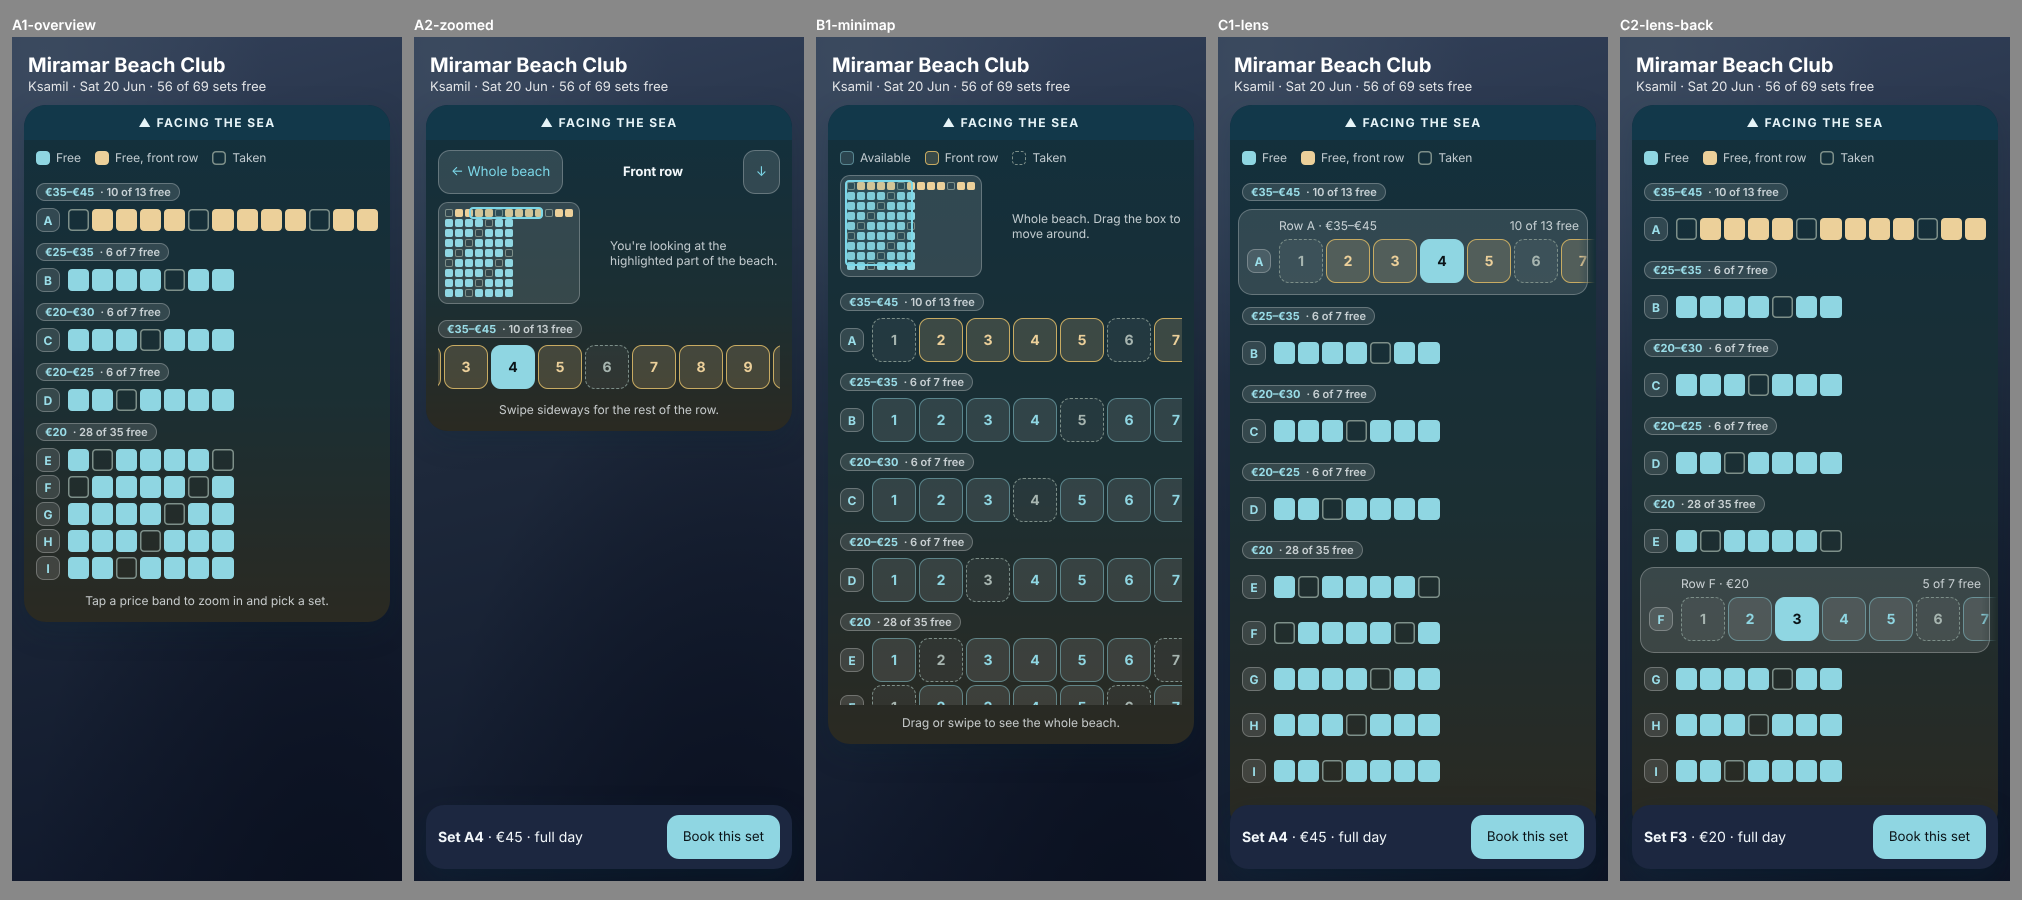
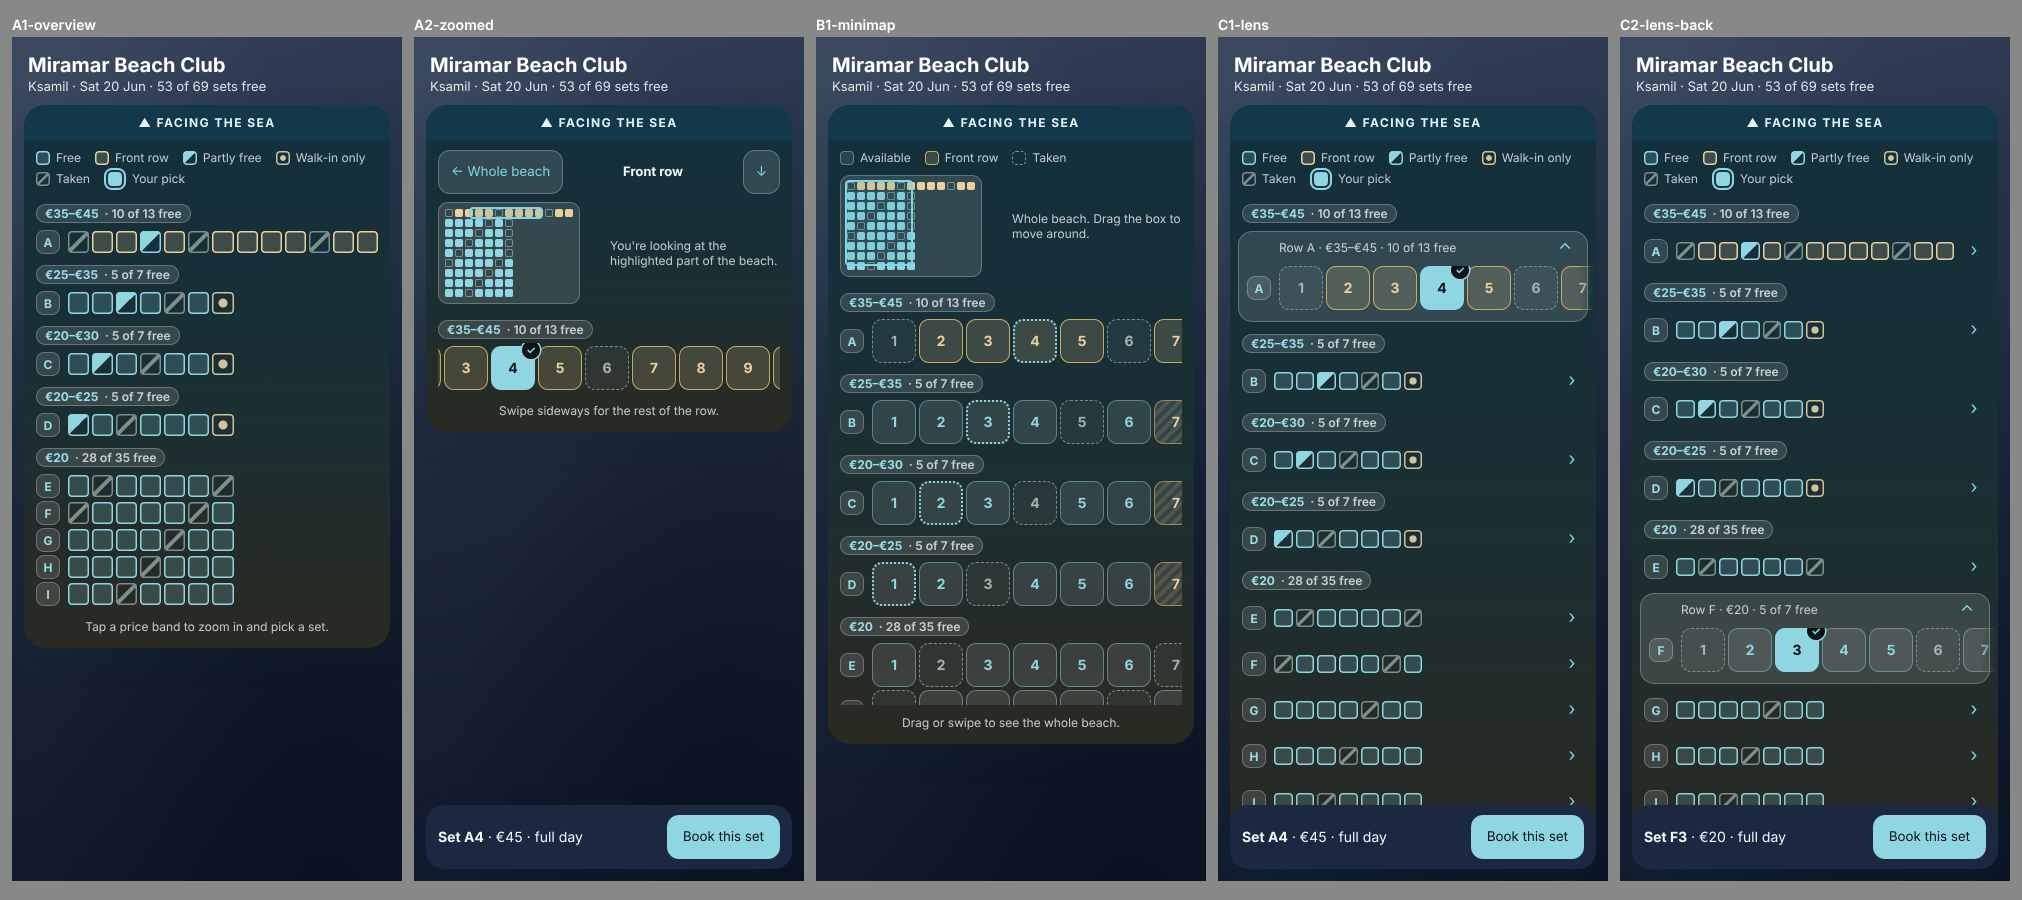
spike(#1762): apply the design critique to the prototype
One state vocabulary at both scales (tint + edge = free, solid = your pick
only, strike = taken), partly-free and walk-in overview treatments, and the
row lens gets a chevron, aria-expanded, a close control, scroll pinned to the
tapped row and focus moved into the open row. Contact sheets re-shot.

Claude-Session: https://claude.ai/code/session_0138xCuCxjYXV8XmCyjSMsWQ

diff --git a/frontend/src/app/venue/PROTOTYPE-1762-phone-map.html b/frontend/src/app/venue/PROTOTYPE-1762-phone-map.html
@@ -4,6 +4,9 @@
   beach map show the WHOLE beach and still let them pick a set on a ≥44px target?
   Three structurally different variants on one page, switchable with ?variant=A|B|C and
   ?theme=porcelain|riviera|dark (floating bar, or ←/→). Open the file directly in a browser.
+  Round 2 (design critique): free = tint + edge, SOLID = your pick only, strike = taken; partly-free
+  and walk-in sets added to the fixture to design their overview look; C rows carry a chevron,
+  aria-expanded, a close control, scroll pinned to the tapped row and focus moved into it.
   Fixture: Miramar (frontend/e2e/support/miramar-map.ts): row A 13 wide, B–I 7, five price zones,
   taken where (position + row) % 5 === 0. Colours are copied from src/tailwind.css's theme tokens.
     A — Overview → zoom: whole beach small; tap a zone to zoom to 44px tiles, mini-map while zoomed.
@@ -46,6 +49,12 @@
         --tk-fill: rgba(255, 255, 255, 0.2);
         --tk-border: #6b7d77;
         --tk-ink: #566560;
+        --av-tint: rgba(15, 125, 140, 0.18);
+        --pr-tint: rgba(135, 89, 17, 0.16);
+        --wk-fill: rgba(239, 224, 189, 0.6);
+        --wk-hatch: rgba(95, 77, 42, 0.16);
+        --wk-border: #c8ab62;
+        --wk-ink: #5f4d2a;
         --focus: #0f7d8c;
         --sel-fill: #0f7d8c;
         --sel-ink: #ffffff;
@@ -90,6 +99,12 @@
         --tk-fill: rgba(255, 255, 255, 0.05);
         --tk-border: #7d8f89;
         --tk-ink: #a7b5b0;
+        --av-tint: rgba(143, 214, 226, 0.18);
+        --pr-tint: rgba(236, 208, 154, 0.18);
+        --wk-fill: rgba(239, 224, 189, 0.12);
+        --wk-hatch: rgba(229, 211, 168, 0.14);
+        --wk-border: #a08a50;
+        --wk-ink: #e5d3a8;
         --focus: #8fd6e2;
         --sel-fill: #8fd6e2;
         --sel-ink: #0b1418;
@@ -178,7 +193,7 @@
         display: inline-flex;
         align-items: center;
         gap: 6px;
-        font-size: 11px;
+        font-size: 12px;
         font-weight: 700;
         color: var(--rail-ink);
         background: var(--chip-fill);
@@ -234,10 +249,71 @@
         color: var(--tk-ink);
         cursor: default;
       }
+      .tile.pt {
+        border: 2px dotted var(--av-ink);
+      }
+      .tile.wk {
+        border-color: var(--wk-border);
+        background:
+          repeating-linear-gradient(135deg, var(--wk-hatch) 0 4px, transparent 4px 8px),
+          var(--wk-fill);
+        color: var(--wk-ink);
+        cursor: default;
+      }
       .tile.sel {
         background: var(--sel-fill);
         border-color: var(--sel-fill);
         color: var(--sel-ink);
+        position: relative;
+      }
+      .tile.sel::after {
+        content: '✓';
+        position: absolute;
+        top: -7px;
+        right: -7px;
+        width: 18px;
+        height: 18px;
+        border-radius: 999px;
+        display: grid;
+        place-items: center;
+        font-size: 11px;
+        background: var(--sel-ink);
+        color: var(--sel-fill);
+        box-shadow: 0 0 0 1.5px var(--sel-fill);
+      }
+      .lens .chev {
+        flex: none;
+        width: 24px;
+        text-align: center;
+        font-size: 18px;
+        line-height: 1;
+        color: var(--accent-ink);
+      }
+      .closebtn {
+        min-width: 44px;
+        min-height: 44px;
+        margin: -12px -8px -12px 0;
+        border: 0;
+        background: transparent;
+        color: var(--accent-ink);
+        font-size: 18px;
+        cursor: pointer;
+        border-radius: 12px;
+      }
+      .open {
+        animation: lens-open 180ms ease-out;
+      }
+      @keyframes lens-open {
+        from {
+          opacity: 0.4;
+          transform: scaleY(0.6);
+          transform-origin: top;
+        }
+      }
+      @media (prefers-reduced-motion: reduce) {
+        .open {
+          animation: none;
+        }
       }
       .tile:focus-visible,
       .lens:focus-visible,
@@ -279,19 +355,45 @@
         gap: 3px;
         flex: 1;
       }
-      .cell {
+      /* one vocabulary at both scales: tint + edge = free, strike = taken, SOLID = your pick only */
+      .cell,
+      .sw {
         aspect-ratio: 1;
         border-radius: 4px;
-        background: var(--av-ink);
+        background: var(--av-tint);
+        box-shadow: inset 0 0 0 1.5px var(--av-ink);
       }
-      .cell.pr {
-        background: var(--pr-ink);
+      .cell.pr,
+      .sw.pr {
+        background: var(--pr-tint);
+        box-shadow: inset 0 0 0 1.5px var(--pr-ink);
       }
-      .cell.tk {
-        background: transparent;
+      .cell.pt,
+      .sw.pt {
+        background: linear-gradient(135deg, var(--av-ink) 0 50%, transparent 50%);
+        box-shadow: inset 0 0 0 1.5px var(--av-ink);
+      }
+      .cell.wk,
+      .sw.wk {
+        background: radial-gradient(circle, var(--wk-ink) 0 28%, transparent 30%);
+        box-shadow: inset 0 0 0 1.5px var(--wk-ink);
+        opacity: 0.9;
+      }
+      .cell.tk,
+      .sw.tk {
+        background: linear-gradient(
+          135deg,
+          transparent 0 44%,
+          var(--tk-border) 44% 56%,
+          transparent 56%
+        );
         box-shadow: inset 0 0 0 1.5px var(--tk-border);
       }
-      .cell.sel {
+      .legend .sw.sel {
+        margin: 0 4px;
+      }
+      .cell.sel,
+      .sw.sel {
         background: var(--sel-fill);
         box-shadow:
           0 0 0 2px var(--card-glass),
@@ -542,7 +644,17 @@
           pos: p + 1,
           minor,
           premium: label === 'A',
-          taken: (p + r) % 5 === 0,
+          state:
+            (p + r) % 5 === 0
+              ? 'taken'
+              : label !== 'A' && p === 6 && r < 4
+                ? 'walkin'
+                : (p + r) % 7 === 3
+                  ? 'partly'
+                  : 'free',
+          get taken() {
+            return this.state === 'taken' || this.state === 'walkin';
+          },
         })),
       }));
       const ZONES = [
@@ -585,10 +697,12 @@
         const sets = rs.flatMap((r) => r.sets);
         return `<div class="band">${span(sets)} <em>· ${freeIn(rs)} of ${totalIn(rs)} free</em></div>`;
       };
+      const cls = (s) =>
+        ({ taken: 'tk', walkin: 'wk', partly: 'pt' })[s.state] || (s.premium ? 'pr' : '');
       const tile = (s) =>
         s.taken
-          ? `<button class="tile tk" aria-label="${s.code}, taken" aria-disabled="true">${s.pos}</button>`
-          : `<button class="tile ${s.premium ? 'pr' : ''} ${state.sel === s.code ? 'sel' : ''}" data-sel="${s.code}" aria-label="${s.code}, ${eur(s.minor)}, free" aria-pressed="${state.sel === s.code}">${s.pos}</button>`;
+          ? `<button class="tile ${cls(s)}" aria-label="${s.code}, ${s.state === 'walkin' ? 'walk-in only' : 'taken'}" aria-disabled="true">${s.pos}</button>`
+          : `<button class="tile ${s.premium ? 'pr' : ''} ${s.state === 'partly' ? 'pt' : ''} ${state.sel === s.code ? 'sel' : ''}" data-sel="${s.code}" aria-label="${s.code}, ${eur(s.minor)}, ${s.state === 'partly' ? 'partly free' : 'free'}" aria-pressed="${state.sel === s.code}">${s.pos}</button>`;
       const cells = (r) => {
         let h = '';
         for (let c = 1; c <= COLS; c++) {
@@ -597,7 +711,7 @@
             h += '<i class="cell hole"></i>';
             continue;
           }
-          h += `<i class="cell ${s.taken ? 'tk' : s.premium ? 'pr' : ''} ${state.sel === s.code ? 'sel' : ''}"></i>`;
+          h += `<i class="cell ${state.sel === s.code ? 'sel' : cls(s)}"></i>`;
         }
         return `<div class="ov" aria-hidden="true">${h}</div>`;
       };
@@ -613,14 +727,17 @@
       const legend = (small) =>
         small
           ? `<div class="legend">
-              <span><i class="sw" style="background:var(--av-ink)"></i>Free</span>
-              <span><i class="sw" style="background:var(--pr-ink)"></i>Free, front row</span>
-              <span><i class="sw" style="box-shadow:inset 0 0 0 1.5px var(--tk-border)"></i>Taken</span>
+              <span><i class="sw"></i>Free</span>
+              <span><i class="sw pr"></i>Front row</span>
+              <span><i class="sw pt"></i>Partly free</span>
+              <span><i class="sw wk"></i>Walk-in only</span>
+              <span><i class="sw tk"></i>Taken</span>
+              <span><i class="sw sel"></i>Your pick</span>
             </div>`
           : `<div class="legend">
-              <span><i class="sw" style="background:var(--av-fill);border:1.5px solid var(--av-border)"></i>Available</span>
-              <span><i class="sw" style="background:var(--pr-fill);border:1.5px solid var(--pr-border)"></i>Front row</span>
-              <span><i class="sw" style="border:1.5px dashed var(--tk-border)"></i>Taken</span>
+              <span><i class="sw" style="box-shadow:none;background:var(--av-fill);border:1.5px solid var(--av-border)"></i>Available</span>
+              <span><i class="sw" style="box-shadow:none;background:var(--pr-fill);border:1.5px solid var(--pr-border)"></i>Front row</span>
+              <span><i class="sw" style="box-shadow:none;background:none;border:1.5px dashed var(--tk-border)"></i>Taken</span>
             </div>`;
 
       // ---- A: overview → zoom ----
@@ -675,12 +792,12 @@
             const free = r.sets.filter((s) => !s.taken).length;
             if (r.label === state.lens) {
               h += `<div class="open" id="open">
-                  <div class="open-head"><span>Row ${r.label} · ${span(r.sets)}</span><span>${free} of ${r.sets.length} free</span></div>
+                  <div class="open-head"><span>Row ${r.label} · ${span(r.sets)} · ${free} of ${r.sets.length} free</span><button class="closebtn" data-lens="" aria-expanded="true" aria-label="Close row ${r.label}">⌃</button></div>
                   <div class="row"><span class="chip">${r.label}</span><div class="pan" id="pan"><div class="track">${r.sets.map(tile).join('')}</div></div></div>
                 </div>`;
             } else {
-              h += `<button class="lens" data-lens="${r.label}" aria-label="Row ${r.label}, ${span(r.sets)}, ${free} of ${r.sets.length} free. Open">
-                  <span class="chip">${r.label}</span>${cells(r)}
+              h += `<button class="lens" data-lens="${r.label}" aria-expanded="false" aria-label="Row ${r.label}, ${span(r.sets)}, ${free} of ${r.sets.length} free">
+                  <span class="chip">${r.label}</span>${cells(r)}<span class="chev" aria-hidden="true">›</span>
                 </button>`;
             }
           }
@@ -792,8 +909,18 @@
         } else if (t.dataset.t) state.theme = t.dataset.t;
         else if (t.dataset.zone)
           state.zone = t.dataset.zone === 'out' ? null : Number(t.dataset.zone);
-        else if (t.dataset.lens) state.lens = t.dataset.lens;
-        else if (t.dataset.sel) state.sel = state.sel === t.dataset.sel ? null : t.dataset.sel;
+        else if (t.dataset.lens !== undefined) {
+          const y = t.getBoundingClientRect().top;
+          state.lens = t.dataset.lens || null;
+          render();
+          const open = document.getElementById('open');
+          const anchor = open || document.querySelector(`[data-lens="${t.dataset.lens}"]`);
+          if (open) {
+            window.scrollBy(0, open.getBoundingClientRect().top - y);
+            open.querySelector('.tile:not([aria-disabled])')?.focus({ preventScroll: true });
+          } else if (anchor) anchor.focus({ preventScroll: true });
+          return;
+        } else if (t.dataset.sel) state.sel = state.sel === t.dataset.sel ? null : t.dataset.sel;
         else return;
         render();
       });
